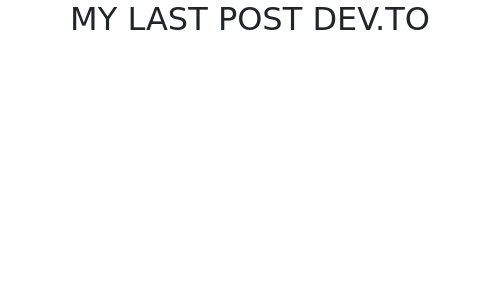
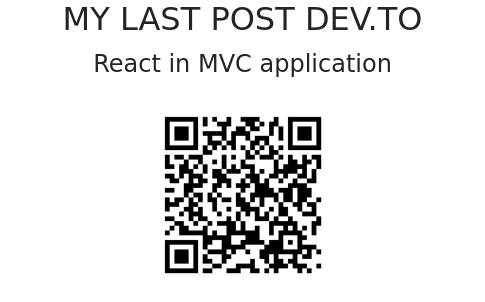
Create github pipeline to take screenshoot of last posts dev.to for me

diff --git a/index.js b/index.js
@@ -94,7 +94,7 @@ const takeScreenshoot = async (posts) => {
 }
 
 const start = async () => {
-    let posts = await getPostsDevTo(process.env.USERNAME)
+    let posts = await getPostsDevTo(process.env.DEVTO_USERNAME)
     posts = posts.filter((_, index) => {
         return index < 1
     }).map(item => {
@@ -108,6 +108,7 @@ const start = async () => {
         posts[index].qrcode = await generateQrcode(posts[index].link)
     }
 
+    console.log(posts)
     await takeScreenshoot(posts)
     const sha = await getFileSha(process.env.FILE_TO_UPLOAD)
     const buffer = fs.readFileSync(process.env.PATH_SCREENSHOOT)
